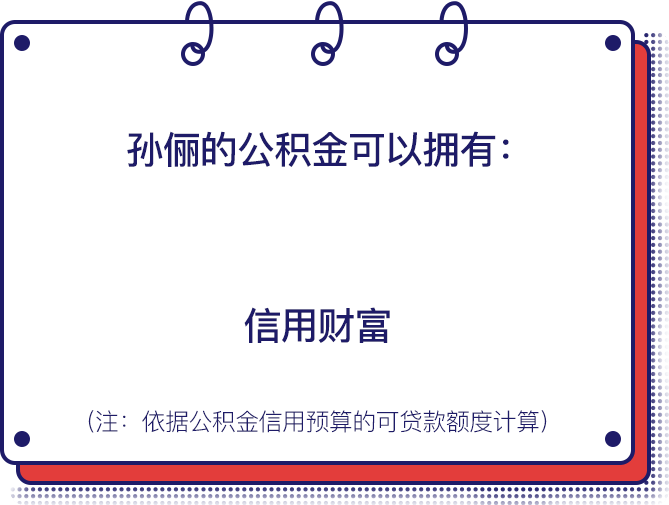
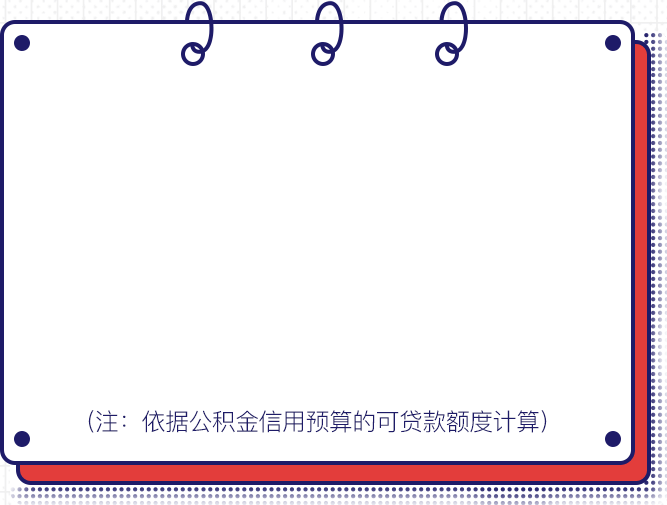
0807

diff --git a/huodong/static/js/20170807.js b/huodong/static/js/20170807.js
@@ -124,6 +124,11 @@ require(["jquery", "fastClick", "FullPage", "ct", "bridge", "juicer"], function 
         },
         getAnalyzingData: function(d) {
             var _this = this;
+           /* _this.showTextContent(".page2 .detail1 span:nth-child(2)",d.analyze1.ranking);
+            _this.showTextContent(".page2 .detail1 span:first-child",d.name + "的公积金在" + d.analyze1.city + "市排名为");
+            _this.showTextContent(".page2 .detail2 span:nth-child(2)",d.analyze1.city + "缴纳公积金人口基数");
+            _this.showTextContent(".page2 .detail2 span:nth-child(2)",d.analyze1.ranking_p + "%");
+            _this.showTextContent(".page2 .detail2 span:nth-child(3)","的" + d.analyze1.city + "人");*/
             $(".page2 .detail1 span:nth-child(2)").text(d.analyze1.ranking);
             $(".page2 .detail1 span:first-child").text(d.name + "的公积金在" + d.analyze1.city + "市排名为");
             $(".page2 .gjj_number div:first-child span").text(d.analyze1.city + "缴纳公积金人口基数");
@@ -154,6 +159,7 @@ require(["jquery", "fastClick", "FullPage", "ct", "bridge", "juicer"], function 
             $(".page6 .detail7-1 .name").text(d.name + "的公积金可以");
             _this.getPage6Text(d.analyze5.text);
 
+            $(".page7 .detail8 div:first-child span").text(d.name + "的公积金可以拥有");
             $(".page7 .detail8 .loan-amount").text(d.analyze6.loanable_amount);
         },
         getPage6Text: function(text) {
@@ -164,6 +170,9 @@ require(["jquery", "fastClick", "FullPage", "ct", "bridge", "juicer"], function 
                 $(".page6 .text"+ (i+1) +"").text(arrText[i].match(/\S+/));
             }
         },
+       /* showTextContent: function(ele,value) {
+            $(ele).text(value);
+        },*/
         getAnalysisData: function () {
             var _this = this;
             $.ajax({

diff --git a/huodong/static/css/20170807.css b/huodong/static/css/20170807.css
@@ -429,7 +429,10 @@ img.quickmark {
 .page6 .detail7-2 {
   font-size: .30rem;
 }
-.page6 .detail7-1 > div,.page6 .detail7-2 > div {
+.page6 .detail7-1 > div {
+  padding-bottom: .2rem;
+}
+.page6 .detail7-2 > div {
   padding-bottom: .1rem;
 }
 .page6 .building {
@@ -480,11 +483,24 @@ img.quickmark {
   -webkit-transform: translateX(-50%);
   transform: translateX(-50%);
 }
-.page7 .detail8 span:first-child {
+.page7 .detail8 div:not(:nth-child(2)) {
+  font-size: .38rem;
+  color: #1e1b68;
+  font-weight: bold;
+  width: 100%;
+  position: absolute;
+}
+.page7 .detail8 div:first-child {
+  top: -.6rem;
+}
+.page7 .detail8 div:last-child {
+  top: 1.4rem;
+}
+.page7 .detail8 div:nth-child(2) span:first-child {
   font-size: .91rem;
   font-weight: bold;
 }
-.page7 .detail8 span:last-child {
+.page7 .detail8 div:nth-child(2) span:last-child {
   font-size: .40rem;
   font-weight: bold;
 }

diff --git a/huodong/20170807/index.php b/huodong/20170807/index.php
@@ -144,8 +144,8 @@
                         <div class="detail7-1">
                             <div><span>说到买房...</span></div>
                             <div><span class="name"><!-- 孙俪的公积金可以 --></span></div>
-                            <div class="text1"></div>
-                            <div class="text2"></div>
+                            <div class="text1 font-color"></div>
+                            <div class="text2 font-color"></div>
                             <div class="text3"></div>
                             <div class="text4"></div>
                         </div>
@@ -167,7 +167,11 @@
                 <div class="content">
                     <img class="quickmark" data-src="<?php echo $imgUrl; ?>page2_quickmark.png" alt="quickmark">
                     <img class="title" data-src="<?php echo $imgUrl; ?>page7_title.png" alt="title">
-                    <div class="detail8"><span class="loan-amount"><!-- 1500000 --></span><span>元</span></div>
+                    <div class="detail8">
+                        <div><span></span></div>
+                        <div><span class="loan-amount"><!-- 1500000 --></span><span>元</span></div>
+                        <div><span>信用财富</span></div>
+                    </div>
                     <div class="detail9"><span>身价这种事儿，还是低调，低调。</span></div>
                     <img class="people" data-src="<?php echo $imgUrl; ?>page7_people.png" alt="people">
                     <!-- 按钮 -->
